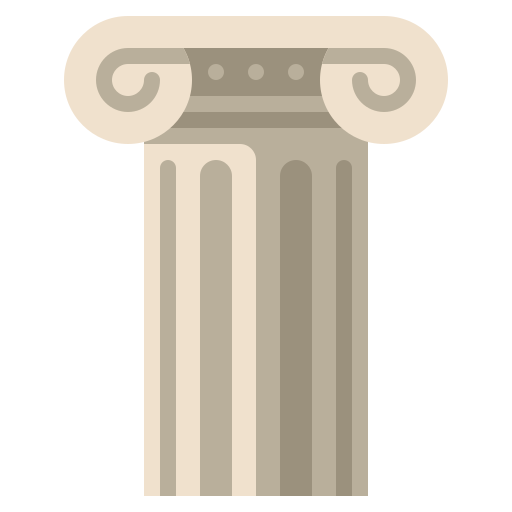
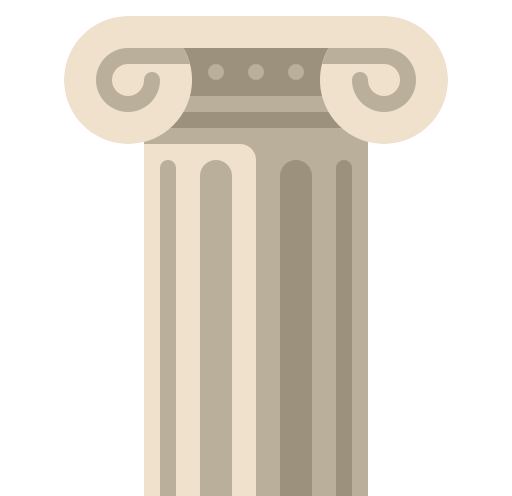
ajutes tela login

diff --git a/style.css b/style.css
@@ -1,4 +1,37 @@
-.modal_initial{
-    background-image:url('assets/images/monte-olimpo-w.png') ;
-    border: solid black;
+html, body {
+    height: 100%;
+    margin: 0; 
+    padding: 0; 
 }
+.display{
+    background-image:url('assets/images/monte-olimpo-1920x1080.png') ;
+    background-size: cover;
+    background-position: center;
+    background-repeat: no-repeat;
+    margin: 0;
+    height: 100vh;
+    width: 100vw;
+    padding: 0;
+    border: none;
+    display: flex;
+    align-items: center;
+    overflow: hidden; 
+    justify-content: right;
+    }
+.modal_login {
+    border: black 1px solid;
+    width: 640px;
+    height: 1080px;
+}
+
+.pilar {
+    border: solid black 1px;
+    padding-top: 242px;
+    width: 640px;
+}
+#left_pilar{
+    
+}
+
+
+

diff --git a/index.html b/index.html
@@ -8,11 +8,13 @@
     </head>
     <body>
         <div class ="display">
-            <div class="modal_initial">
-                <img src="assets/images/monte-olimpo-w.png">
+            <div class="pilar"id="right_pilar">
+                <img src="assets/images/pilar.png">
             </div>
-            <div class="modal_initial">
-                
+            <div class="modal_login">
+            </div>
+            <div class="pilar" id="left_pilar">
+                <img src="assets/images/pilar.png">
             </div>
         </div>
     </body>
